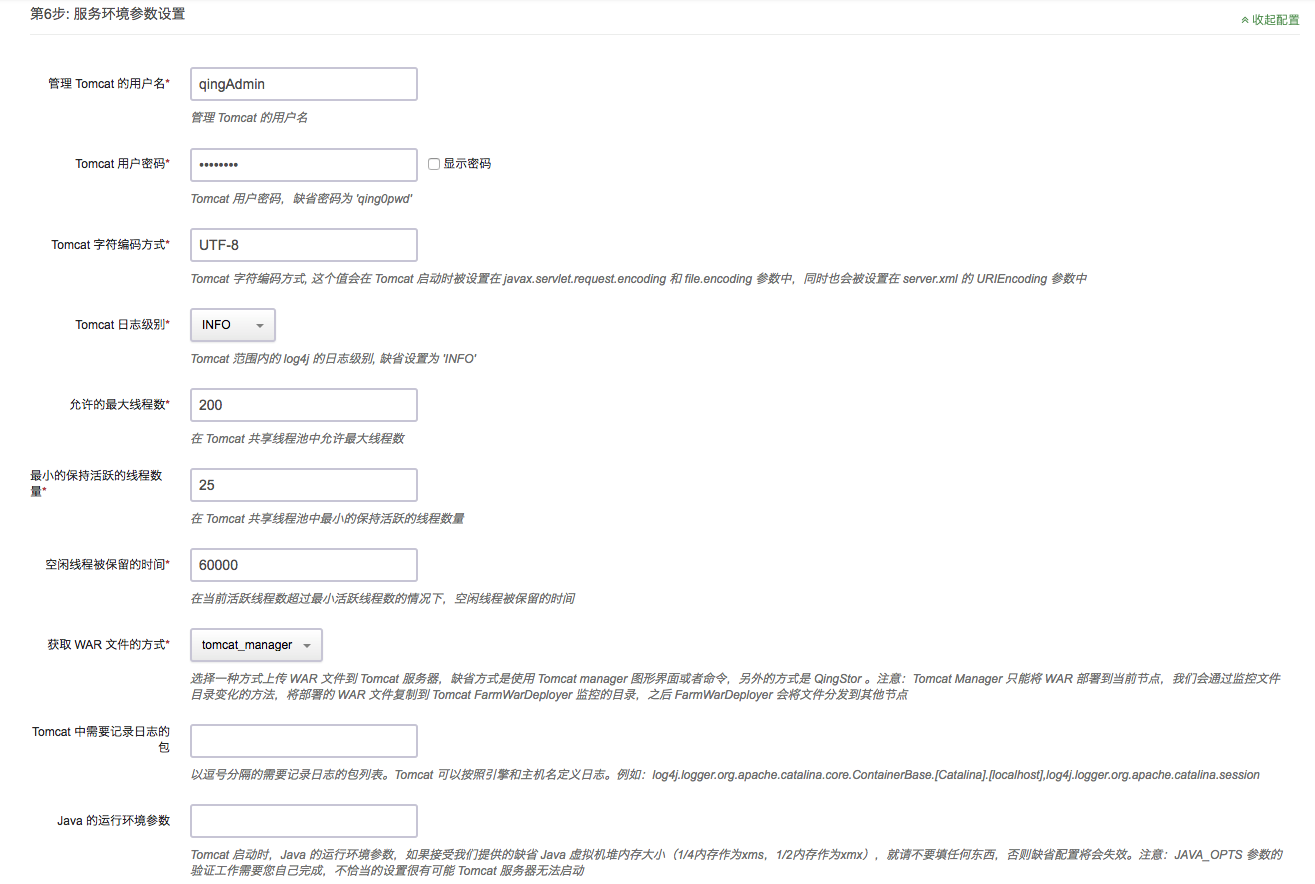
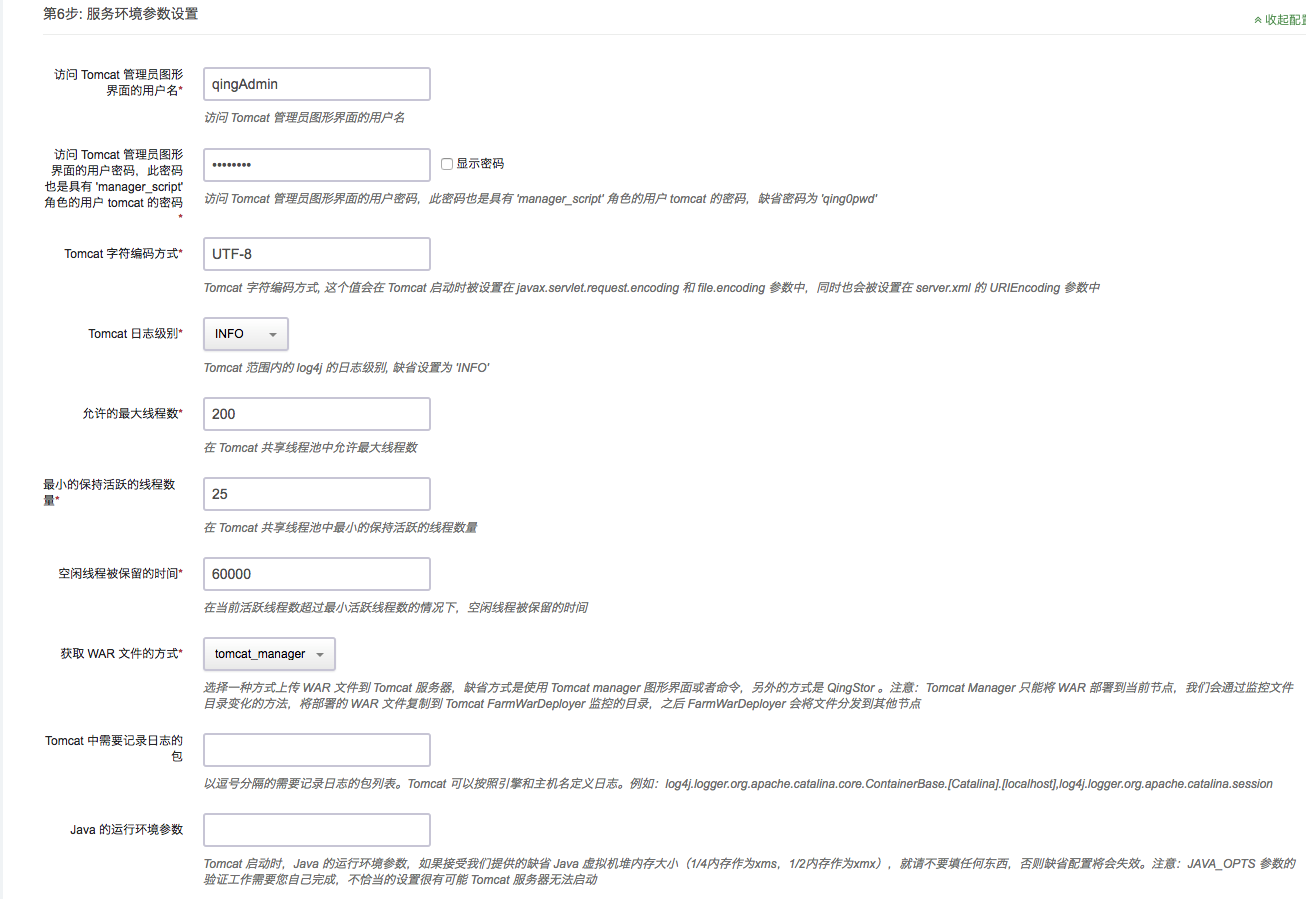
update tomcat password description

Changed region(s): [[0.0306, 0.0611, 1.0, 1.0], [0.0306, 0.0, 0.1531, 0.0305], [0.9495, 0.0, 1.0, 0.0305]]

diff --git a/docs/tomcat/README.md b/docs/tomcat/README.md
@@ -129,12 +129,12 @@ MySql 数据库应用可以在 AppCenter 控制台中创建
 
 ##### 配置说明
 
-1. Tomcat 用户名密码用于访问 Tomcat Manager 服务，缺省密码为 qing0pwd ，已存在的角色包括 standard，manager-gui，manager-script。
+1. Tomcat 用户名密码用于访问 Tomcat 管理员图形界面服务，缺省密码为 qing0pwd ，同时此密码也被应用于关联了角色 manager-script 的内置用户 tomcat，即更改此密码，会同时作用于环境变量中的 Tomcat 用户名以及内置用户 tomcat，<font color=red>所以请不要设置用户名为 tomcat</font>。
 1. Tomcat 字符编码方式的配置会被分别设置在 JAVA_OPTS （-Djavax.servlet.request.encoding=UTF-8 -Dfile.encoding=UTF-8） 以及 server.xml 中，前者会作为环境变量被 Tomcat 的启动脚本使用。
 1. Tomcat 基于 log4j 1.2.17，默认日志级别为 INFO，用户可下拉选择更改。
 1. 本集群使用 Tomcat 共享线程池。
-1. 如果 WAR 文件的获取方式选择了 tomcat_manager，可以通过通过负载均衡器的地址访问 Tomcat Manager <http://load-balancer-address> ，这时访问的是某一节点的 Tomcat Manager ，输入用户名和密码，上传 WAR 文件完成部署。<font color=red>注意，Tomcat Manager 并不支持集群分发部署，也就是说这个 WAR 现在只是在当前节点部署成功，之后青云提供的监控脚本会发现这个新部署的文件夹，并复制到 Tomcat FarmWarDeployer 监控的目录中，这样 FarmWarDeployer 会通知其他节点，实现分发部署。为避免陷入各节点循环复制部署，脚本需比较 WAR 目录下 META-INFO／MANIFEST.MF 文件中的 Manifest-Version，所以请确保使用的 WAR 文件中包含此文件及所需参数</font>。  
-    另外，Tomcat 已添加 manager-script 角色，所以用户也可以选择青云合作伙伴提供的 Jenkins 应用服务 <https://appcenter.qingcloud.com/apps/app-jbffg31u> 。运行之后访问 Jenkins 控制台，下载并配置 Jenkins 的 “Deploy to container” 插件，实现分发部署。  
+1. 如果 WAR 文件的获取方式选择了 tomcat_manager，可以通过通过负载均衡器的地址访问 Tomcat Manager <http://load-balancer-address> ，这时访问的是某一节点的 Tomcat Manager ，输入用户名和密码，上传 WAR 文件完成部署。<font color=red>注意，Tomcat Manager 并不支持集群分发部署，也就是说这个 WAR 现在只是在当前节点部署成功，之后青云提供的监控脚本会发现这个新部署的文件夹，并复制到 Tomcat FarmWarDeployer 监控的目录中，这样 FarmWarDeployer 会通知其他节点，实现分发部署。为避免陷入各节点循环复制部署，脚本需比较 WAR 目录下 META-INFO／MANIFEST.MF 文件中的 Manifest-Version，所以请确保使用的 WAR 文件中包含此文件及所需参数</font>。原生 tomcat 上传文件限制为 52M，本应用已去处此限制，但用户应根据实际情况减小 WAR 文件大小以减少等待时间。  
+    另外，Tomcat 已添加 manager-script 角色，所以用户也可以选择青云合作伙伴提供的 Jenkins 应用服务 <https://appcenter.qingcloud.com/apps/app-jbffg31u> 。运行之后访问 Jenkins 控制台，下载并配置 Jenkins 的 “Deploy to container” 插件，配置用户名为 tomcat，密码为环境变量中的密码，以此实现分发部署。  
 1. 我们会根据您设置的节点物理内存大小自动配置 Java 虚拟机的最小和最大堆栈大小，分别为四分之一和二分之一内存大小，也就是说如果选择单节点 4G 内存，则 xms 为 1G，xmx为 2G。
 1. Tomcat 使用 OpenJDK 1.8.0_131，默认打开 Garbage Collection，其配置于 Tomcat 启动脚本 catalina.sh 中，配置为 CATALINA_OPTS="-XX:+PrintGCDateStamps -Xloggc:/opt/apache-tomcat-7.0.78/logs/tomcat_gc.log -XX:+UseGCLogFileRotation -XX:NumberOfGCLogFiles=1 -XX:GCLogFileSize=100M" ，日志同样会被转发至日志服务器统一保存。
 1. Tomcat 节点提供 ssh 访问权限，<font color=red>默认用户名密码为 root/zhu1241jie，集群创建后请及时更改密码</font>，同时不应直接修改 Tomcat 目录下的配置文件，而应修改 /etc/confd/templates 下对应配置文件的模版文件，否则集群启动后，Tomcat 目录下修改会被刷新覆盖。
